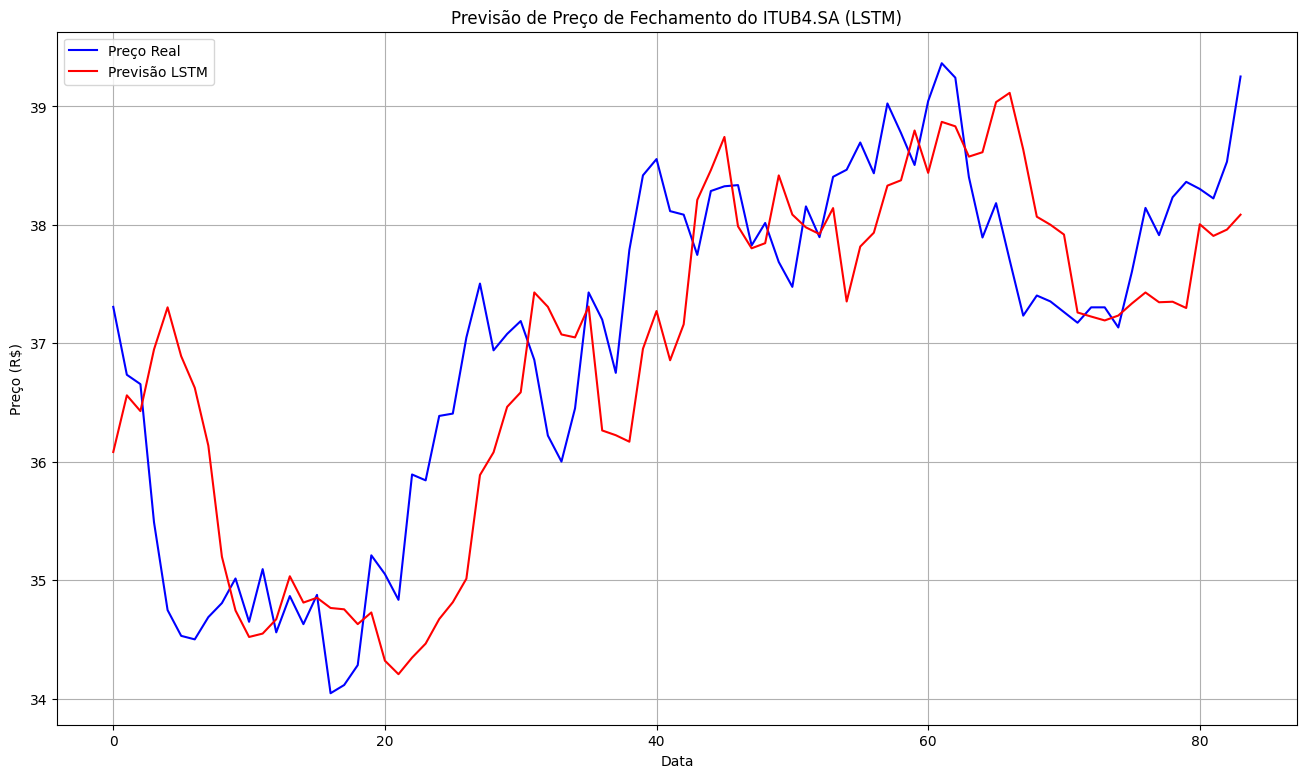
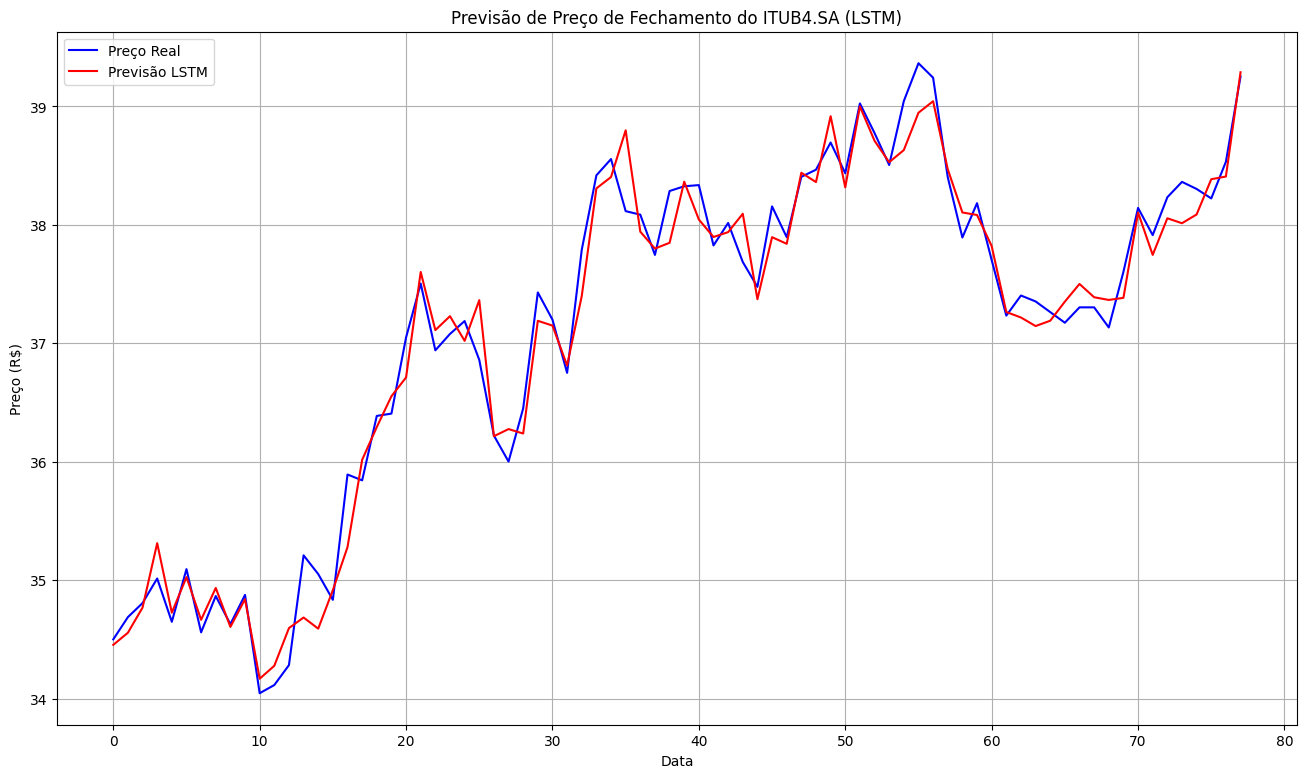
refactor: atualiza avaliação do modelo

diff --git a/src/evaluation_models.py b/src/evaluation_models.py
@@ -1,10 +1,11 @@
 import torch
 import torch.nn as nn
-from torch.utils.data import Dataset, DataLoader
 import yfinance as yf
 import numpy as np
 import pandas as pd
-from sklearn.metrics import mean_absolute_error, mean_squared_error, root_mean_squared_error
+from sklearn.metrics import mean_absolute_error
+from sklearn.metrics import mean_squared_error
+from sklearn.metrics import root_mean_squared_error
 from sklearn.preprocessing import MinMaxScaler
 import matplotlib.pyplot as plt
 import pickle
@@ -57,7 +58,6 @@ class SimpleLSTM(nn.Module):
         self.hidden_size = hidden_size
         self.num_layers = num_layers
 
-        # input_size=5 ('Close', 'daily_return', '5-day_volatility', '10-day_volatility', '15-day_volatility')
         self.lstm = nn.LSTM(input_size, hidden_size, num_layers, batch_first=True)
 
         # Camanda dropout (desliga neuronios)
@@ -73,25 +73,44 @@ class SimpleLSTM(nn.Module):
 
         # Passa o input pelo LSTM
         # out: [batch_size, seq_length, hidden_size]
-        out, _ = self.lstm(x, (h0, c0))
+        out, _ = self.lstm(x, (h0, c0))        
 
         # Pegamos apenas a saída do último passo da sequência (last time step)
         # out[:, -1, :] tem a forma [batch_size, hidden_size]
         out = self.fc(out[:, -1, :])
+
         return out
     
-# PARÂMETROS 
+# PARÂMETROS GERAIS
 
 TICKER = 'ITUB4.SA'       # Ticker do Itaú na B3
 START_DATE = '2025-06-01' # Data inicial do dataset
 END_DATE = '2025-10-31'   # Data final do dataset
-SEQ_LENGTH = 20           # Tamanho da janela de observação (dias)
-TEST_SIZE = 1             # 100% dos dados para teste
+NR_STRATEGY = 2           # Número da estratégia de features utilizada
 
-input_size= 4
-hidden_size= 128
-num_layers= 2
-dropout_prob= 0.2
+# Obtendo modelo ótimo salvo
+model_path= f'./reports/best_strategy_{NR_STRATEGY}.csv'
+model_df= pd.read_csv(model_path)
+NR_MODEL= int(model_df.iloc[0]['nr_model'])
+
+# Lendo numero de features do modelo salvo
+features= f'./data/features/strategy_{NR_STRATEGY}.csv'
+features_df= pd.read_csv(features)
+input_size= len(features_df.columns) -1 # Subtrai 1 para não contar a coluna Date
+
+# Lendo parâmetros do modelo salvo
+report= f'./reports/report_strategy_{NR_STRATEGY}.csv'
+params_df= pd.read_csv(report)
+params_df= params_df.iloc[NR_MODEL -1] 
+
+# Extraindo parâmetros
+seq_length = int(params_df['seq_length']) 
+hidden_size= int(params_df['hidden_size'])
+num_layers= int(params_df['num_layers'])
+dropout_prob= float(params_df['dropout_prob'])
+dias_futuros= int(params_df['dias_futuros'])
+
+print(f'\nModelo: {NR_MODEL} | seq_length: {seq_length} | hidden_size: {hidden_size} | num_layers: {num_layers} | dropout_prob: {dropout_prob}')
 
 # COLETA E PREPARAÇÃO DOS DADOS
 
@@ -103,17 +122,10 @@ data = build_features_2(data)
 
 # Construindo a janela deslizante
 data = data.to_numpy()
-#X, y = create_sequences_multivariate(data, SEQ_LENGTH)
-X, y= janelaDeslizanteNDias(data, SEQ_LENGTH, 5)
 
-print(f'\nX.shape: {X.shape}, y.shape: {y.shape}')
-
+X, y= janelaDeslizanteNDias(data, seq_length, dias_futuros)
 X_test_reshaped = X.reshape(-1, 1)
 y_test_reshaped = y.reshape(-1, 1)
-
-print(f'X_test_reshaped.shape: {X_test_reshaped.shape}, y_test_reshaped.shape: {y_test_reshaped.shape}')
-
-# Normalização dos dados de validação
 
 # Normalização nos dados de validação
 scaler = MinMaxScaler(feature_range=(-1, 1))
@@ -125,20 +137,16 @@ scaler.fit(X_test_reshaped)
 X_test_norm = scaler.transform(X_test_reshaped).reshape(X.shape)
 y_test_norm = scaler.transform(y.reshape(-1, 1))
 
-print(f'X_test_norm.shape: {X_test_norm.shape}, y_test_norm.shape: {y_test_norm.shape}')
-
 # Convertendo para tensores do PyTorch
 X_test = torch.from_numpy(X_test_norm).float().to(DEVICE).unsqueeze(-1)
 y_test = torch.from_numpy(y_test_norm).float().to(DEVICE).unsqueeze(1)
-
-print(f'X_test.shape: {X_test.shape}, y_test.shape: {y_test.shape}')
 
 # CARREGANDO MODELO TREINADO
 
 print("\nCarregando modelo treinado...")
 
 # Definindo o caminho do modelo salvo
-arquivo_modelo = f'./models/strategy_2/modelo_lstm_101.pkl'
+arquivo_modelo = f'./models/strategy_2/modelo_lstm_{NR_MODEL}.pkl'
 
 # Caso GPU disponível
 if torch.cuda.is_available():
